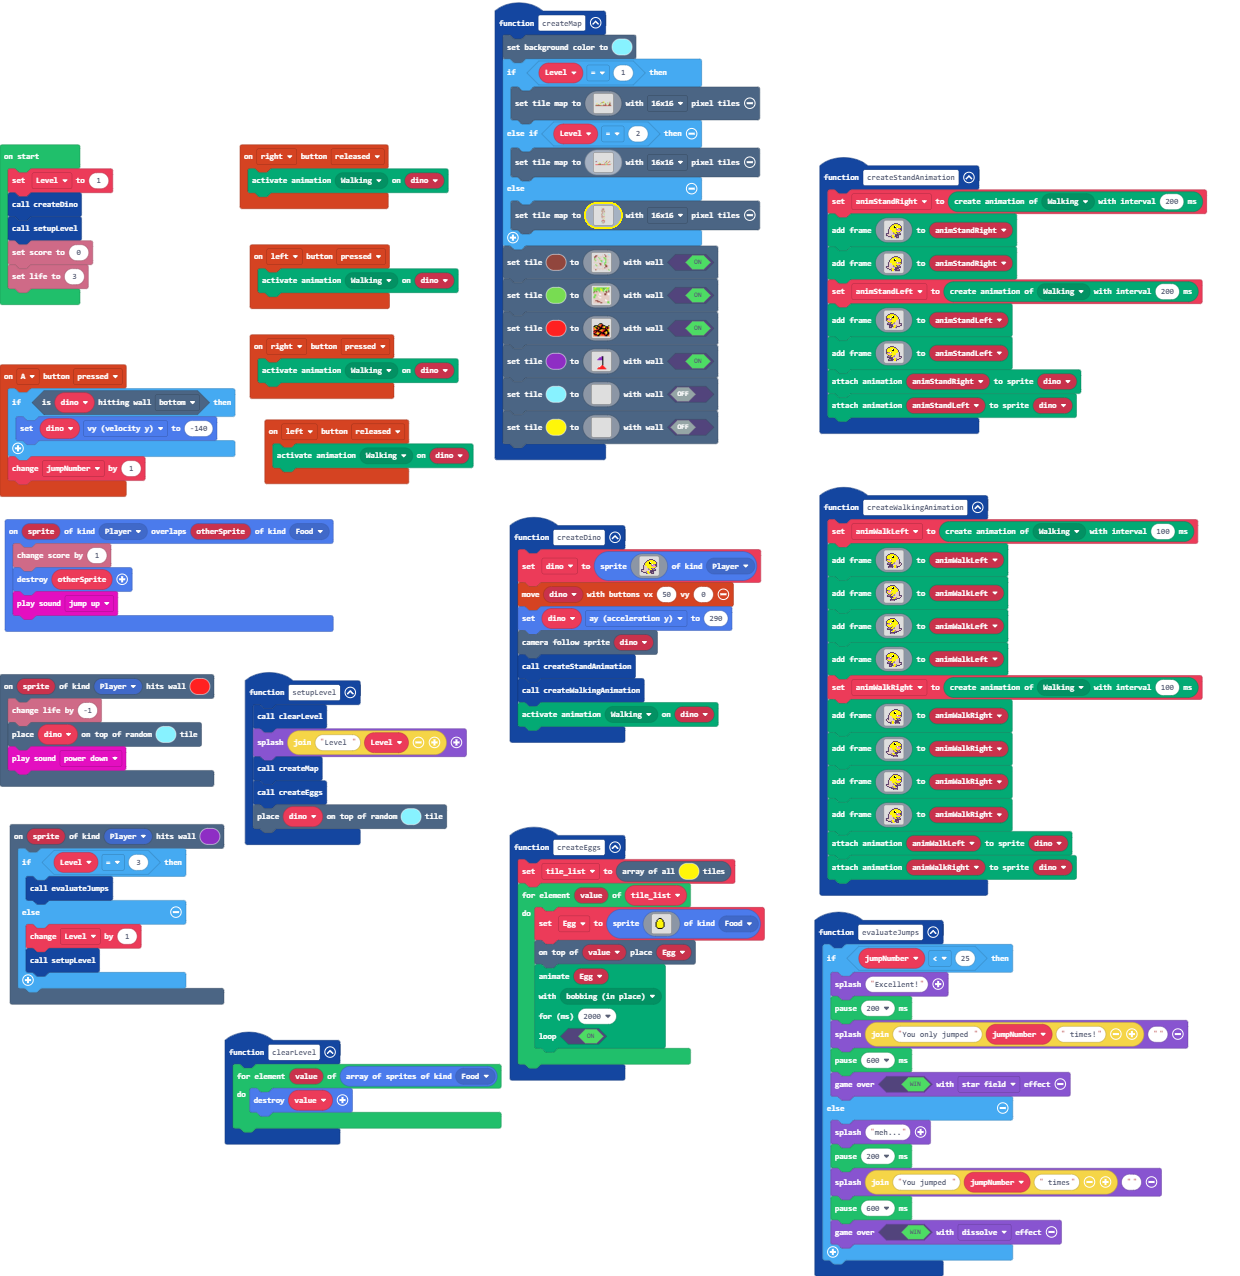
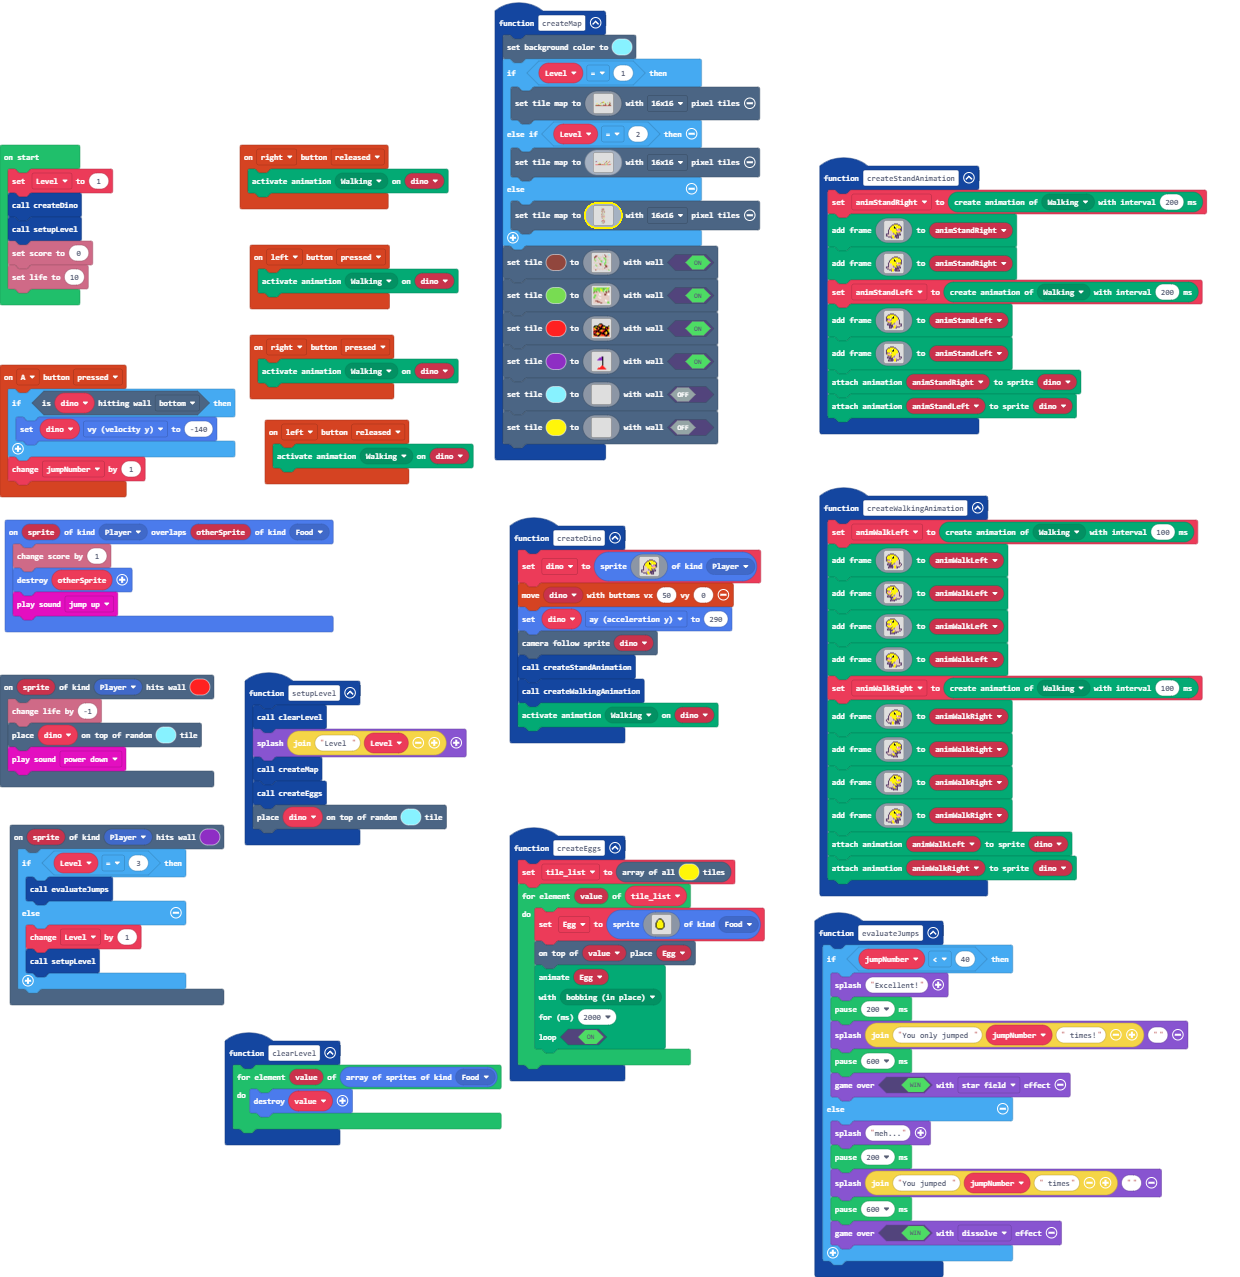
should be finished

diff --git a/main.ts b/main.ts
@@ -126,41 +126,41 @@ function createMap () {
             7.........
             ....7.....
             ..7...ee..
-            ....2.....
-            e..ee222..
+            ...22.....
+            ee.ee222..
             ...eaeeee.
             ..7e......
             ...e......
             e..e77277.
-            e........2
+            e.....e..2
             ee.......e
-            .ee2ee..5e
-            .5......ee
-            .........e
-            ..eeee....
-            ..........
+            .ee2e....e
+            .5...e...e
+            ........5e
+            ..eee...ee
+            7.........
+            ......7...
             .........5
-            .....e...7
-            5eeee.....
-            ee........
-            e......777
+            5eeee....7
+            ee...e....
+            e.........
+            .......e7.
             ..........
-            ..........
-            .5ee......
-            2e......77
+            .5ee7.....
+            2e.....722
             e.........
             ..eee.22..
-            .e5..e..22
-            ..........
+            .....e..22
+            .e...5....
             ..........
             .ee2e..5..
-            .......7..
+            ...e...7..
             .........5
             .........7
             ......5...
-            ......e...
-            ...e......
+            .....ee...
             ..........
+            ...e......
             ..22222222
             .eeeeeeeee
             ........ee
@@ -168,7 +168,7 @@ function createMap () {
             ..e.7...5e
             ........ee
             .......ee.
-            99.eee2...
+            99.eee2e..
             777...e...
             `, TileScale.Sixteen)
     }
@@ -488,7 +488,7 @@ controller.right.onEvent(ControllerButtonEvent.Pressed, function () {
     animation.setAction(dino, ActionKind.walkingRight)
 })
 function evaluateJumps () {
-    if (jumpNumber < 25) {
+    if (jumpNumber < 40) {
         game.splash("Excellent!")
         pause(200)
         game.splash("You only jumped " + jumpNumber + " times!", "")
@@ -556,4 +556,4 @@ Level = 1
 createDino()
 setupLevel()
 info.setScore(0)
-info.setLife(3)
+info.setLife(10)
